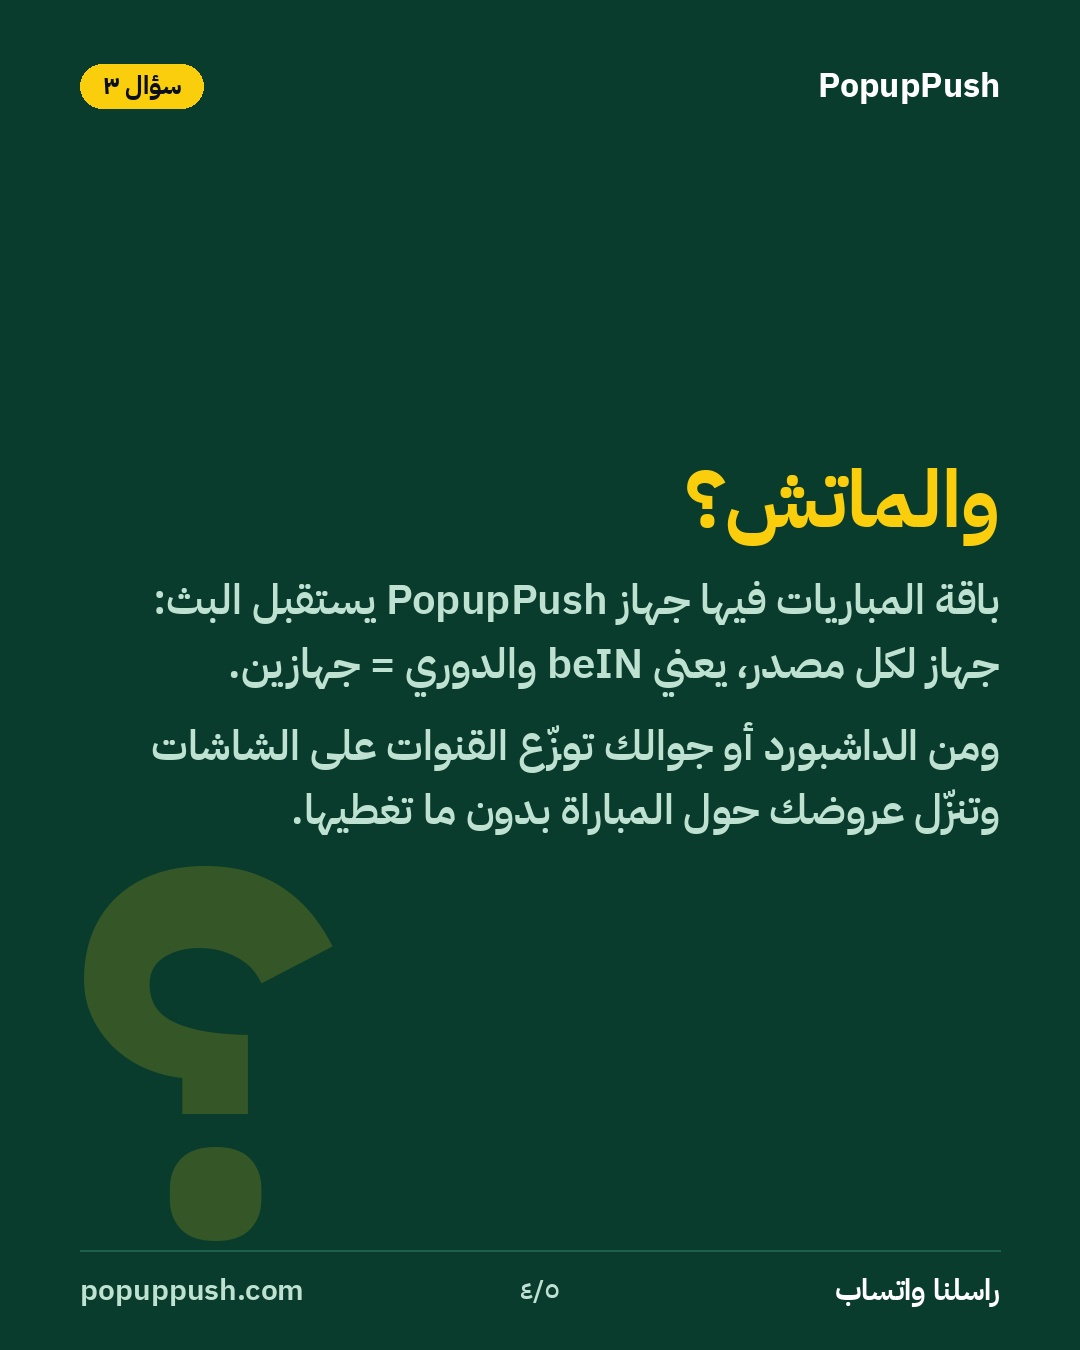
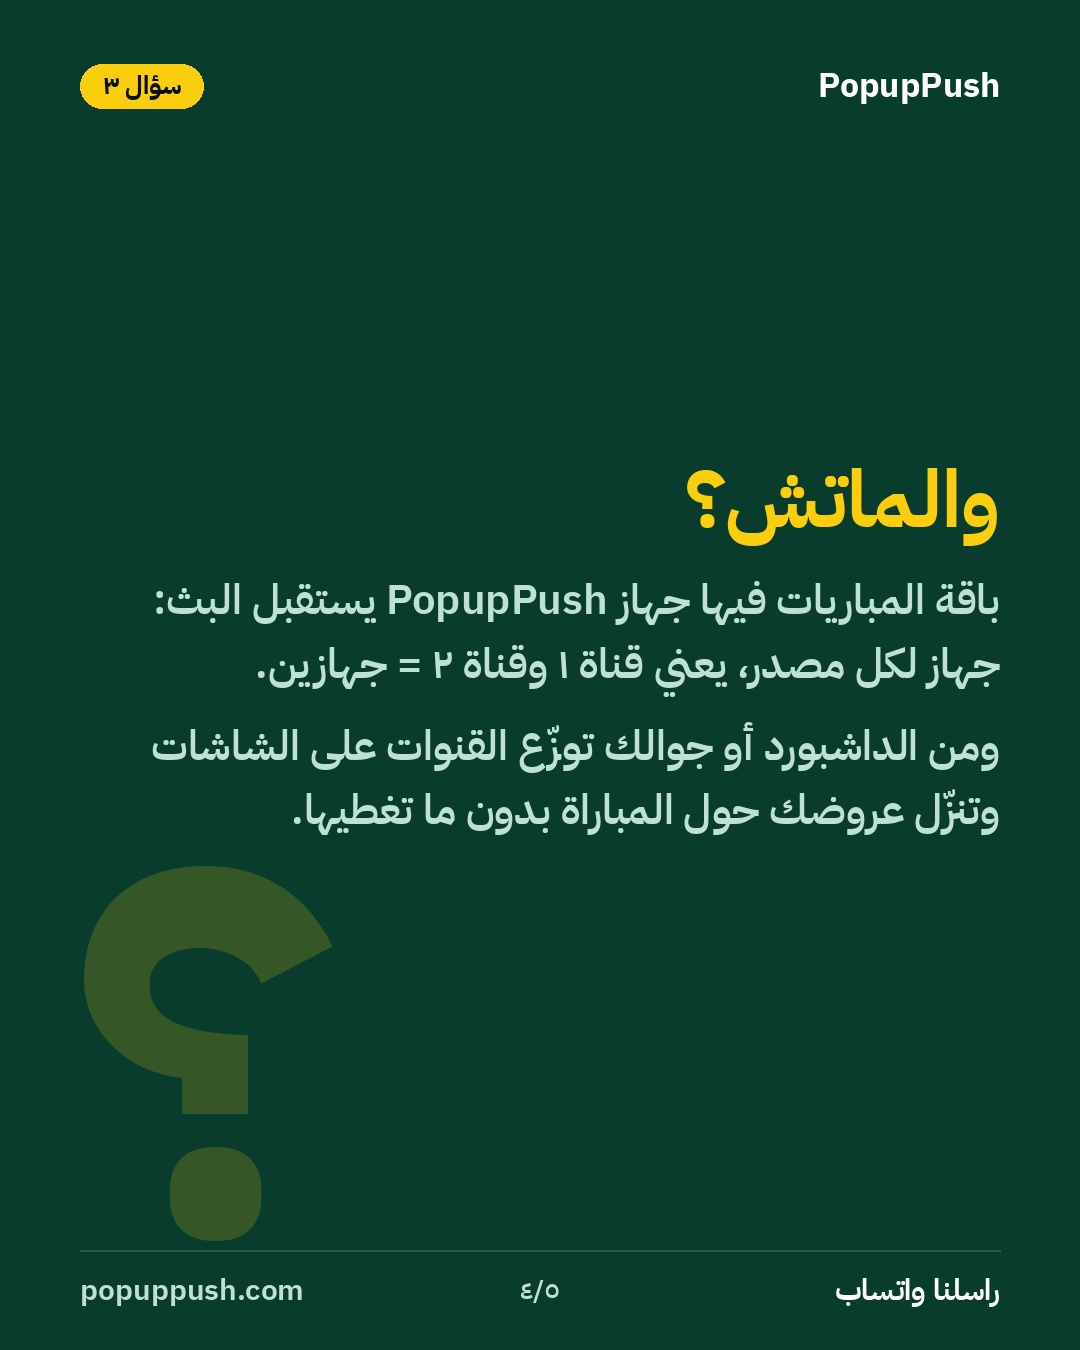
Replace beIN / Saudi league names with «قناة ١ / قناة ٢» (copyright)
Claude-Session: https://claude.ai/code/session_012aeGc1ksmT1Mdqdqyz4pXR

Changed region(s): [[0.2139, 0.4667, 0.6111, 0.5289], [0.8556, 0.4667, 0.8861, 0.4978]]

diff --git a/content-plan/build_calendar.py b/content-plan/build_calendar.py
@@ -46,17 +46,17 @@ rows = [
   "٣ شرائح: شاشة عادية ← نفس الشاشة بعرض ومنيو ← الجوال يتحكم"),
  (date(2026,10,23),"مقاهي ولاونجات",SHORT,"ريل ١٥ ث","يوم مباراة: عرض وقت المباراة",
   "الشوط الأول خلص… | والعرض نزل على كل الشاشات",
-  "بين الشوطين أكثر وقت الناس تطلب فيه ⚽\nPopupPush ينزّل عرضك على كل الشاشات بنفس اللحظة — بشاشة مقسومة ما تغطي على المباراة.\nموسم الدوري شغّال… واللي يركّب الحين يلحق الزحمة.",
-  "#دوري_روشن #مقاهي_الرياض #مشاهدة_المباريات #عروض_المباراة #PopupPush","—",
+  "بين الشوطين أكثر وقت الناس تطلب فيه ⚽\nPopupPush ينزّل عرضك على كل الشاشات بنفس اللحظة — بشاشة مقسومة ما تغطي على المباراة.\nموسم المباريات شغّال… واللي يركّب الحين يلحق الزحمة.",
+  "#مباريات_اليوم #مقاهي_الرياض #مشاهدة_المباريات #عروض_المباراة #PopupPush","—",
   "شاشة مقسومة L بين الشوطين + شريط النتيجة ومواقيت الصلاة"),
  (date(2026,10,24),"كل القطاعات",STORY,"ستوري تصويت","وين تشوف شاشات ما تسوي شي؟",
   "وين تشوف شاشات… ما تسوي شي؟ | مقهى · فندق · مستشفى · مول",
   "(ستوري — ملصق تصويت بأربع خيارات + ملصق الموقع: الرياض)",
   "#الرياض #PopupPush","—","قالب ستوري بألوان الهوية"),
  (date(2026,10,25),"مقاهي ولاونجات",SHORT,"يوميات كفو — حلقة ٣","ماتشين بنفس الوقت",
-  "بي إن هنا… والدوري هناك | أبشر، خلّها على كفو!",
-  "ماتشين بنفس الوقت؟ ولا يهمك 😎\nكفو يوزّع القنوات على الشاشات من الجوال: هذي بي إن، وهذي الدوري — بدون ما تدوّر على ريموت.\n#يوميات_كفو — الحلقة ٣ 🎬",
-  "#يوميات_كفو #كفو #دوري_روشن #لاونجات_الرياض #PopupPush","—",
+  "قناة ١ هنا… وقناة ٢ هناك | أبشر، خلّها على كفو!",
+  "ماتشين بنفس الوقت؟ ولا يهمك 😎\nكفو يوزّع القنوات على الشاشات من الجوال: هذي قناة ١، وهذي قناة ٢ — بدون ما تدوّر على ريموت.\n#يوميات_كفو — الحلقة ٣ 🎬",
+  "#يوميات_كفو #كفو #مباريات_اليوم #لاونجات_الرياض #PopupPush","—",
   "حلقة ٣ (١٦–٢٠ ث، 9:16، ترجمة على الشاشة)"),
  (date(2026,10,26),"فنادق",CAR,"كاروسيل ٤ شرائح","شاشات الفندق ترحّب بالضيف",
   "فندقك يرحّب بالضيف… ولا يعرض قناة؟ | لوبي · مطعم وسبا · لاونج المباريات",
@@ -115,7 +115,7 @@ rows = [
  (date(2026,11,6),"مقاهي ولاونجات",SHORT,"ريل ١٥ ث","يوم مباراة: الطلب من الشاشة",
   "اطلب من الشاشة | بدون ما تنادي الويتر",
   "وقت الهجمة ما أحد يبي يلتفت يدوّر الويتر 😅\nمع PopupPush الضيف يطلب من الشاشة… والمبيعات تزيد وقت الذروة.",
-  "#دوري_روشن #مقاهي_الرياض #تجربة_العملاء #مشاهدة_المباريات #PopupPush","—",
+  "#مباريات_اليوم #مقاهي_الرياض #تجربة_العملاء #مشاهدة_المباريات #PopupPush","—",
   "تسجيل شاشة الطلب"),
  (date(2026,11,7),"كل القطاعات","ستوري + هايلايت إنستغرام","ستوري أسئلة شائعة","أسئلتكم",
   "أسئلتكم | السعر · الشاشات · المباريات · كيف أبدأ",
@@ -137,7 +137,7 @@ rows = [list(x) for x in rows]
 # 0 d,1 sec,2 plat,3 fmt,4 idea,5 ontext,6 cap,7 tags,8 li,9 mat
 rows[0][3:7] = ["ريل ١٥–٢٠ ث", "كيف يشتغل: لاونج من جوال واحد",
   "لاونج كامل… من جوال واحد؟ | كل الشاشات والقنوات والعروض بضغطة",
-  "بي إن على شاشة، الدوري على ثانية، والعرض على الكل… وكل هذا من جوالك 📲\nPopupPush يتحكم بماتريكس المحل، يبدّل القنوات، وينزّل العروض — بدون ريموت ولا لف بين الشاشات.\nمقهى أو لاونج؟ راسلنا واتساب — الرابط بالبايو."]
+  "قناة ١ على شاشة، قناة ٢ على ثانية، والعرض على الكل… وكل هذا من جوالك 📲\nPopupPush يتحكم بماتريكس المحل، يبدّل القنوات، وينزّل العروض — بدون ريموت ولا لف بين الشاشات.\nمقهى أو لاونج؟ راسلنا واتساب — الرابط بالبايو."]
 rows[8][3:7] = ["كاروسيل", "شاشات عمودية: منيو وعروض",
   "مش بس مباريات | شاشات عمودية — منيو وعروض من الجوال",
   "سقف، جدار، أو شاشات عمودية.\nمو كل مكان يحتاج مباريات — بعض اللاونجات تبي شاشات تعرض المنيو والعروض بشكل أنيق ويتغيّر من الجوال.\nPopupPush يتأقلم مع مكانك، مو العكس."]
@@ -211,7 +211,7 @@ bank = [
  ("المنطقة","#الرياض #شمال_الرياض #السعودية #جدة #الشرقية #الدمام #الخبر #موسم_الرياض","#Riyadh #KSA #SaudiArabia #RiyadhSeason #Jeddah #Dammam","هاشتاق منطقة واحد بكل بوست"),
  ("مقاهي ولاونجات","#مقاهي_الرياض #كافيهات_الرياض #لاونجات_الرياض #كوفي_شوب #قهوة_مختصة #مشاريع_مقاهي #صاحب_مقهى #ديكور_مقاهي","#RiyadhCafes #RiyadhCoffee #SpecialtyCoffee #CoffeeShop #LoungeRiyadh",""),
  ("مطاعم","#مطاعم_الرياض #مطاعم_السعودية #منيو_رقمي #تسويق_المطاعم #ادارة_مطاعم #تشغيل_مطاعم #مطابخ_سحابية","#RiyadhRestaurants #RiyadhFood #DigitalMenu #RestaurantMarketing #FoodAndBeverage",""),
- ("مباريات ورياضة","#دوري_روشن #الدوري_السعودي #مشاهدة_المباريات #مباراة_اليوم #عروض_المباراة #كأس_الملك","#RSL #SaudiProLeague #MatchDay #SportsBar","أيام المباريات فقط"),
+ ("مباريات ورياضة","#مباريات_اليوم #مشاهدة_المباريات #مباراة_اليوم #عروض_المباراة #كأس_الملك","#RSL #SaudiProLeague #MatchDay #SportsBar","أيام المباريات فقط"),
  ("فنادق وضيافة","#فنادق_الرياض #قطاع_الضيافة #تجربة_الضيف #الضيافة_السعودية #شقق_فندقية #منتجعات","#RiyadhHotels #Hospitality #HotelTech #GuestExperience #HospitalityTech",""),
  ("مستشفيات وعيادات","#مستشفيات_الرياض #عيادات_الرياض #تجربة_المريض #الصحة_الرقمية #التحول_الرقمي_الصحي #مجمعات_طبية #عيادات_الأسنان #مراكز_التجميل","#PatientExperience #HealthTech #DigitalHealth #SaudiHealthcare #HealthcareInnovation",""),
  ("صيدليات","#صيدليات_الرياض #صيدليات #عروض_الصيدليات","#PharmacyRetail #Pharmacy",""),
@@ -238,7 +238,7 @@ ws3 = wb.create_sheet("قواعد الهاشتاقات")
 setup(ws3, ["المنصة","العدد","التركيبة","ملاحظات"], [18,12,50,55], "PopupPush — كم هاشتاق لكل منصة")
 rules = [
  ("إنستغرام","٥ كحد أقصى","براند + منطقة + قطاع ×٢ + موضوع","إنستغرام حدّد ٥ هاشتاقات للبوست. الأهم: الكلمات المفتاحية بالكابشن والنص على التصميم."),
- ("تيك توك","٣–٥","براند + قطاع + موضوع ترند (مثلاً دوري روشن)","البحث بتيك توك يعتمد على الكلام المكتوب والمنطوق بالفيديو — اكتب «مقاهي الرياض» على الشاشة."),
+ ("تيك توك","٣–٥","براند + قطاع + موضوع ترند (مثلاً المباريات)","البحث بتيك توك يعتمد على الكلام المكتوب والمنطوق بالفيديو — اكتب «مقاهي الرياض» على الشاشة."),
  ("فيسبوك","٢–٣","براند + قطاع","الهاشتاقات تأثيرها قليل بفيسبوك؛ ركّز على الكابشن والسؤال بآخره."),
  ("لينكدإن","٣–٥","إنجليزي غالباً + قطاع مهني","استخدم هاشتاقات المهنة والقطاع (Hospitality, HealthTech) مش هاشتاقات المستهلك."),
  ("يوتيوب شورتس","٣","براند + قطاع + #Shorts","أول ٣ هاشتاقات تظهر فوق العنوان."),
